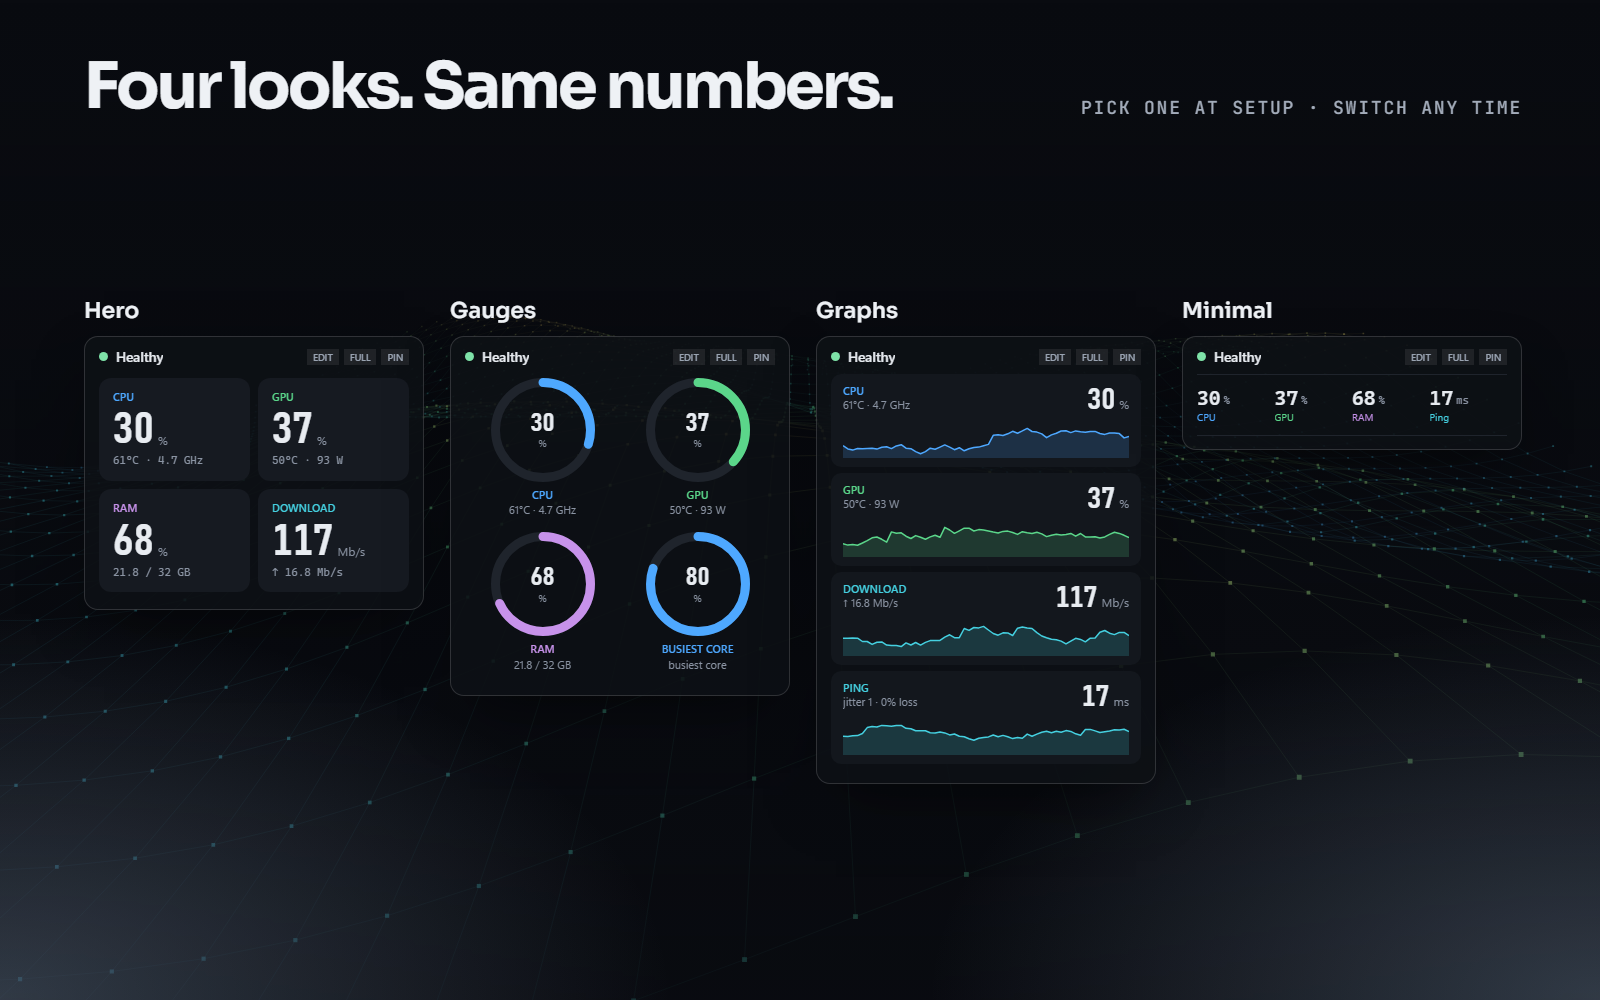
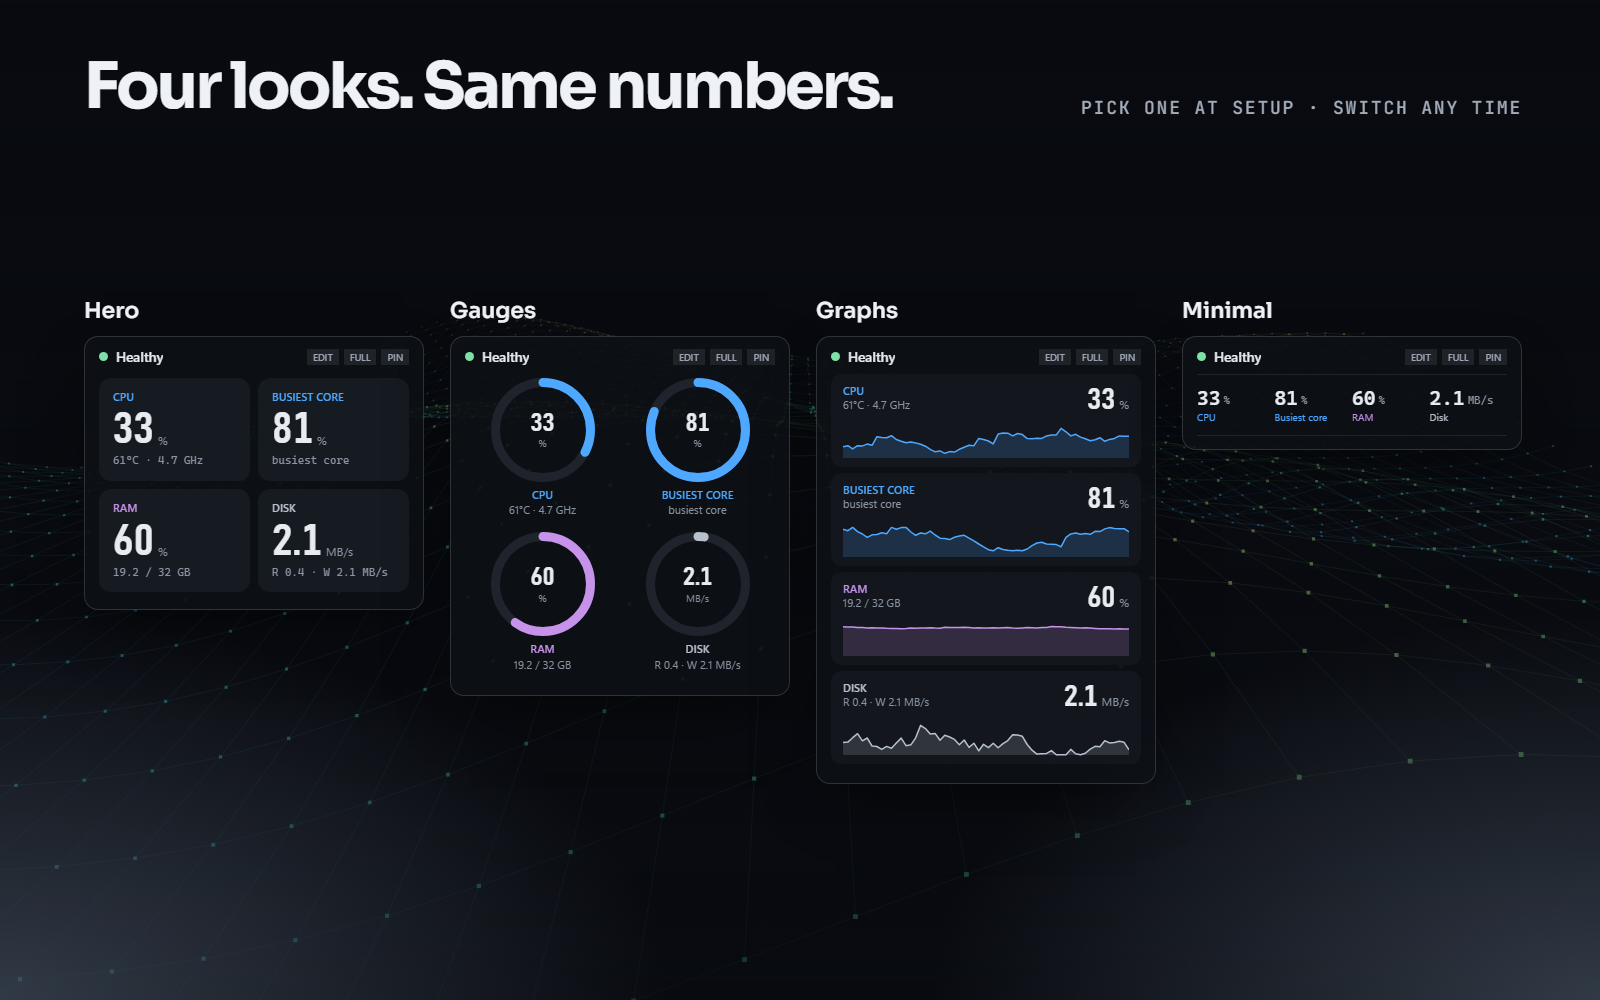
Website: same stats in all four looks, two-column layout, quieter coffee links
The four looks all show the Coding & builds stats, as the app would (and the
media kit image matches). Hero over Gauges and Graphs over Minimal, so the
columns end at about the same height. The header's coffee link is an icon
only; the support box asks "Buy me a coffee?". Version line reads
"v0.3.1 · open source · buy me a coffee".

diff --git a/docs/index.html b/docs/index.html
@@ -51,6 +51,9 @@ h2 { font-weight: 700; letter-spacing: -.035em; }
 .top nav { display: flex; gap: 6px 22px; flex-wrap: wrap; align-items: center; font-size: 15px; }
 .top nav a { color: var(--soft); text-decoration: none; }
 .top nav a:hover { color: var(--ink); }
+.nav-tip { display: inline-flex; align-items: center; }
+.nav-tip svg { width: 18px; height: 18px; }
+.top nav a.nav-tip:hover { color: var(--fps); }
 
 /* hero */
 .hero { display: grid; grid-template-columns: minmax(0, 1.05fr) minmax(0, 1fr); gap: 48px; align-items: center; padding-block: 72px 64px; }
@@ -71,8 +74,6 @@ h1 em { font-style: normal; background: linear-gradient(90deg, var(--cpu), var(-
 .btn-tip:hover { background: #FFE19A; color: #1B1500; }
 .fine { font-family: var(--mono); font-size: 13px; color: var(--dim); margin-top: 16px; }
 .fine-tip { color: var(--fps); }
-.nav-tip { display: inline-flex; align-items: center; gap: 6px; color: var(--fps) !important; }
-.nav-tip svg { width: 16px; height: 16px; }
 .stage { display: grid; justify-items: center; gap: 12px; }
 .stage .tag { font-family: var(--mono); font-size: 12px; color: var(--soft); }
 
@@ -95,7 +96,8 @@ h2 { font-family: var(--display); font-weight: 800; font-size: clamp(32px, 4vw, 
 .chips { display: flex; flex-wrap: wrap; gap: 6px; }
 .chip { font-family: var(--mono); font-size: 11.5px; font-weight: 600; padding: 3px 8px; border-radius: 6px; background: rgba(255,255,255,.06); }
 
-.looks { display: grid; grid-template-columns: repeat(2, minmax(0, 1fr)); gap: 40px 32px; }
+.looks { display: grid; grid-template-columns: repeat(2, minmax(0, 1fr)); gap: 40px 32px; align-items: start; }
+.looks-col { display: grid; gap: 40px; min-width: 0; }
 .look { display: grid; gap: 14px; justify-items: start; align-content: start; justify-self: center; max-width: 100%; }
 .look h3 { font-family: var(--display); font-weight: 700; font-size: 22px; margin: 0; }
 .look h3 span { font-family: var(--body); font-weight: 400; font-size: 15px; color: var(--soft); margin-left: 8px; }
@@ -285,7 +287,7 @@ footer a { color: var(--soft); }
       <a href="#install">Install</a>
       <a href="#faq">FAQ</a>
       <a href="#" data-link="github">GitHub</a>
-      <a href="#" data-link="donate" class="nav-tip"><svg viewBox="0 0 24 24" fill="none" stroke="currentColor" stroke-width="2" stroke-linecap="round" stroke-linejoin="round" aria-hidden="true"><path d="M17 8h1a3 3 0 0 1 0 6h-1"/><path d="M5 8h12v9a3 3 0 0 1-3 3H8a3 3 0 0 1-3-3z"/><path d="M8 4c0-1 .7-1.5 1.5-1.5S11 3 11 4"/><path d="M12 4c0-1 .7-1.5 1.5-1.5S15 3 15 4"/></svg>Buy me a coffee</a>
+      <a href="#" data-link="donate" class="nav-tip" aria-label="Buy me a coffee" title="Buy me a coffee"><svg viewBox="0 0 24 24" fill="none" stroke="currentColor" stroke-width="2" stroke-linecap="round" stroke-linejoin="round" aria-hidden="true"><path d="M17 8h1a3 3 0 0 1 0 6h-1"/><path d="M5 8h12v9a3 3 0 0 1-3 3H8a3 3 0 0 1-3-3z"/><path d="M8 4c0-1 .7-1.5 1.5-1.5S11 3 11 4"/><path d="M12 4c0-1 .7-1.5 1.5-1.5S15 3 15 4"/></svg></a>
       <a class="btn btn-glass" style="padding:8px 16px;font-size:15px" href="#" data-link="download">Download</a>
     </nav>
   </header>
@@ -303,7 +305,7 @@ footer a { color: var(--soft); }
           </a>
           <a class="btn btn-glass" href="#" data-link="github">View the source</a>
         </div>
-        <p class="fine">v0.3.0 · free, or <a href="#" data-link="donate" class="fine-tip">buy me a coffee</a></p>
+        <p class="fine">v0.3.1 · open source · <a href="#" data-link="donate" class="fine-tip">buy me a coffee</a></p>
       </div>
       <div class="stage">
         <div class="wfit" id="hero-widget"></div>
@@ -435,7 +437,7 @@ footer a { color: var(--soft); }
       <div style="display:grid;gap:10px;justify-items:center">
       <a class="btn btn-tip" href="#" data-link="donate">
         <svg viewBox="0 0 24 24" fill="none" stroke="currentColor" stroke-width="2" stroke-linecap="round" stroke-linejoin="round" aria-hidden="true"><path d="M17 8h1a3 3 0 0 1 0 6h-1"/><path d="M5 8h12v9a3 3 0 0 1-3 3H8a3 3 0 0 1-3-3z"/><path d="M8 4c0-1 .7-1.5 1.5-1.5S11 3 11 4"/><path d="M12 4c0-1 .7-1.5 1.5-1.5S15 3 15 4"/></svg>
-        Buy me a coffee
+        Buy me a coffee?
       </a>
       <span style="font-size:14px;color:var(--soft)">any amount, once or monthly, on Ko-fi</span>
       </div>
@@ -795,16 +797,18 @@ footer a { color: var(--soft); }
     c.appendChild(chips); ug.appendChild(c);
   });
 
-  var LOOKS = [['hero', 'Hero numbers', 'big bold figures', ['cpu', 'gpu', 'ram', 'down']], ['gauges', 'Gauges', 'dials, like a car', ['cpu', 'gpu', 'ram', 'core']],
-               ['graphs', 'Graphs', 'live history lines', ['cpu', 'gpu', 'down', 'ping']], ['minimal', 'Minimal', 'quiet, text only', ['cpu', 'gpu', 'ram', 'ping']]];
-  var lg = document.getElementById('looks-grid');
-  LOOKS.forEach(function (l) {
+  // every look shows the same stats (the Coding & builds preset), as in the app
+  var LOOKS = [['hero', 'Hero numbers', 'big bold figures'], ['gauges', 'Gauges', 'dials, like a car'],
+               ['graphs', 'Graphs', 'live history lines'], ['minimal', 'Minimal', 'quiet, text only']];
+  // two columns, Hero over Gauges and Graphs over Minimal, so the column heights come out about even
+  var lg = document.getElementById('looks-grid'), cols = [0, 1].map(function () { var c = document.createElement('div'); c.className = 'looks-col'; lg.appendChild(c); return c; });
+  LOOKS.forEach(function (l, i) {
     var f = document.createElement('div'); f.className = 'look';
     var h = document.createElement('h3'); h.textContent = l[1];
     var s = document.createElement('span'); s.textContent = l[2]; h.appendChild(s);
     var host = document.createElement('div'); host.className = 'wfit';
-    f.append(h, host); lg.appendChild(f);
-    D.mount(host, function () { return D.frame(380, D.looks[l[0]](l[3], []), { view: 'FULL' }); });
+    f.append(h, host); cols[i < 2 ? 0 : 1].appendChild(f);
+    D.mount(host, function () { return D.frame(380, D.looks[l[0]](BIG, []), { view: 'FULL' }); });
   });
 
   var st = document.getElementById('statuses');
